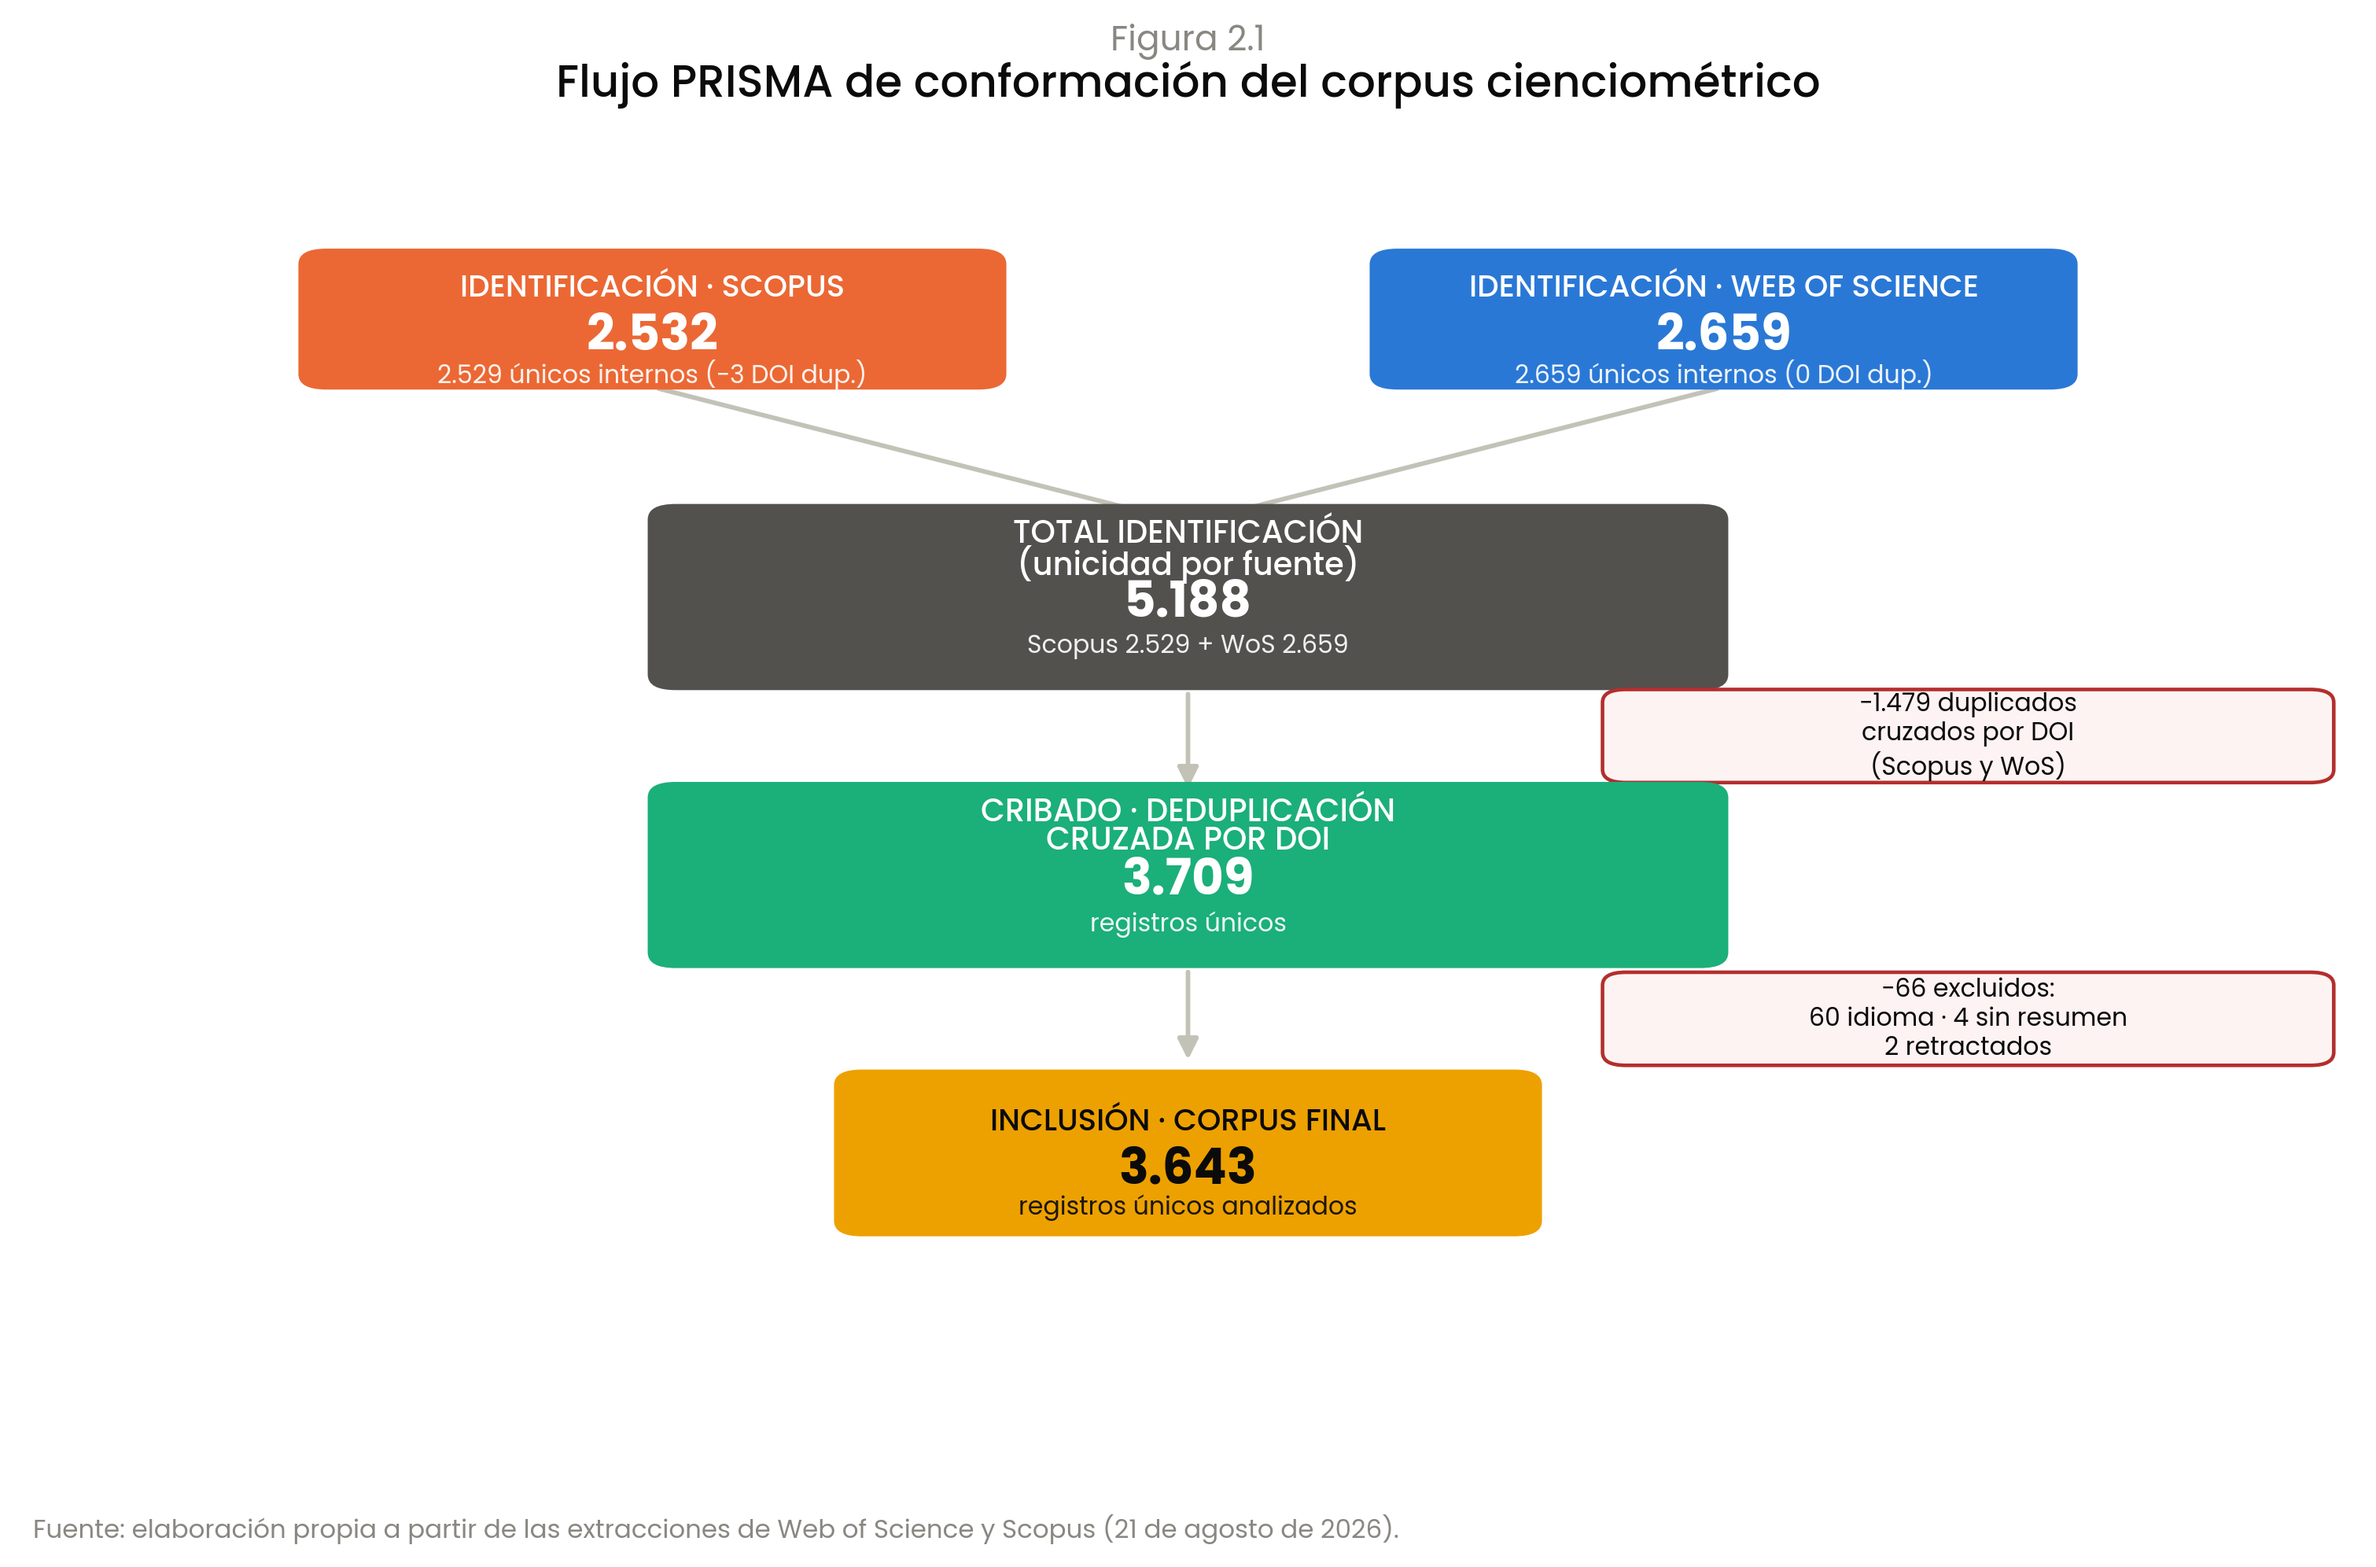
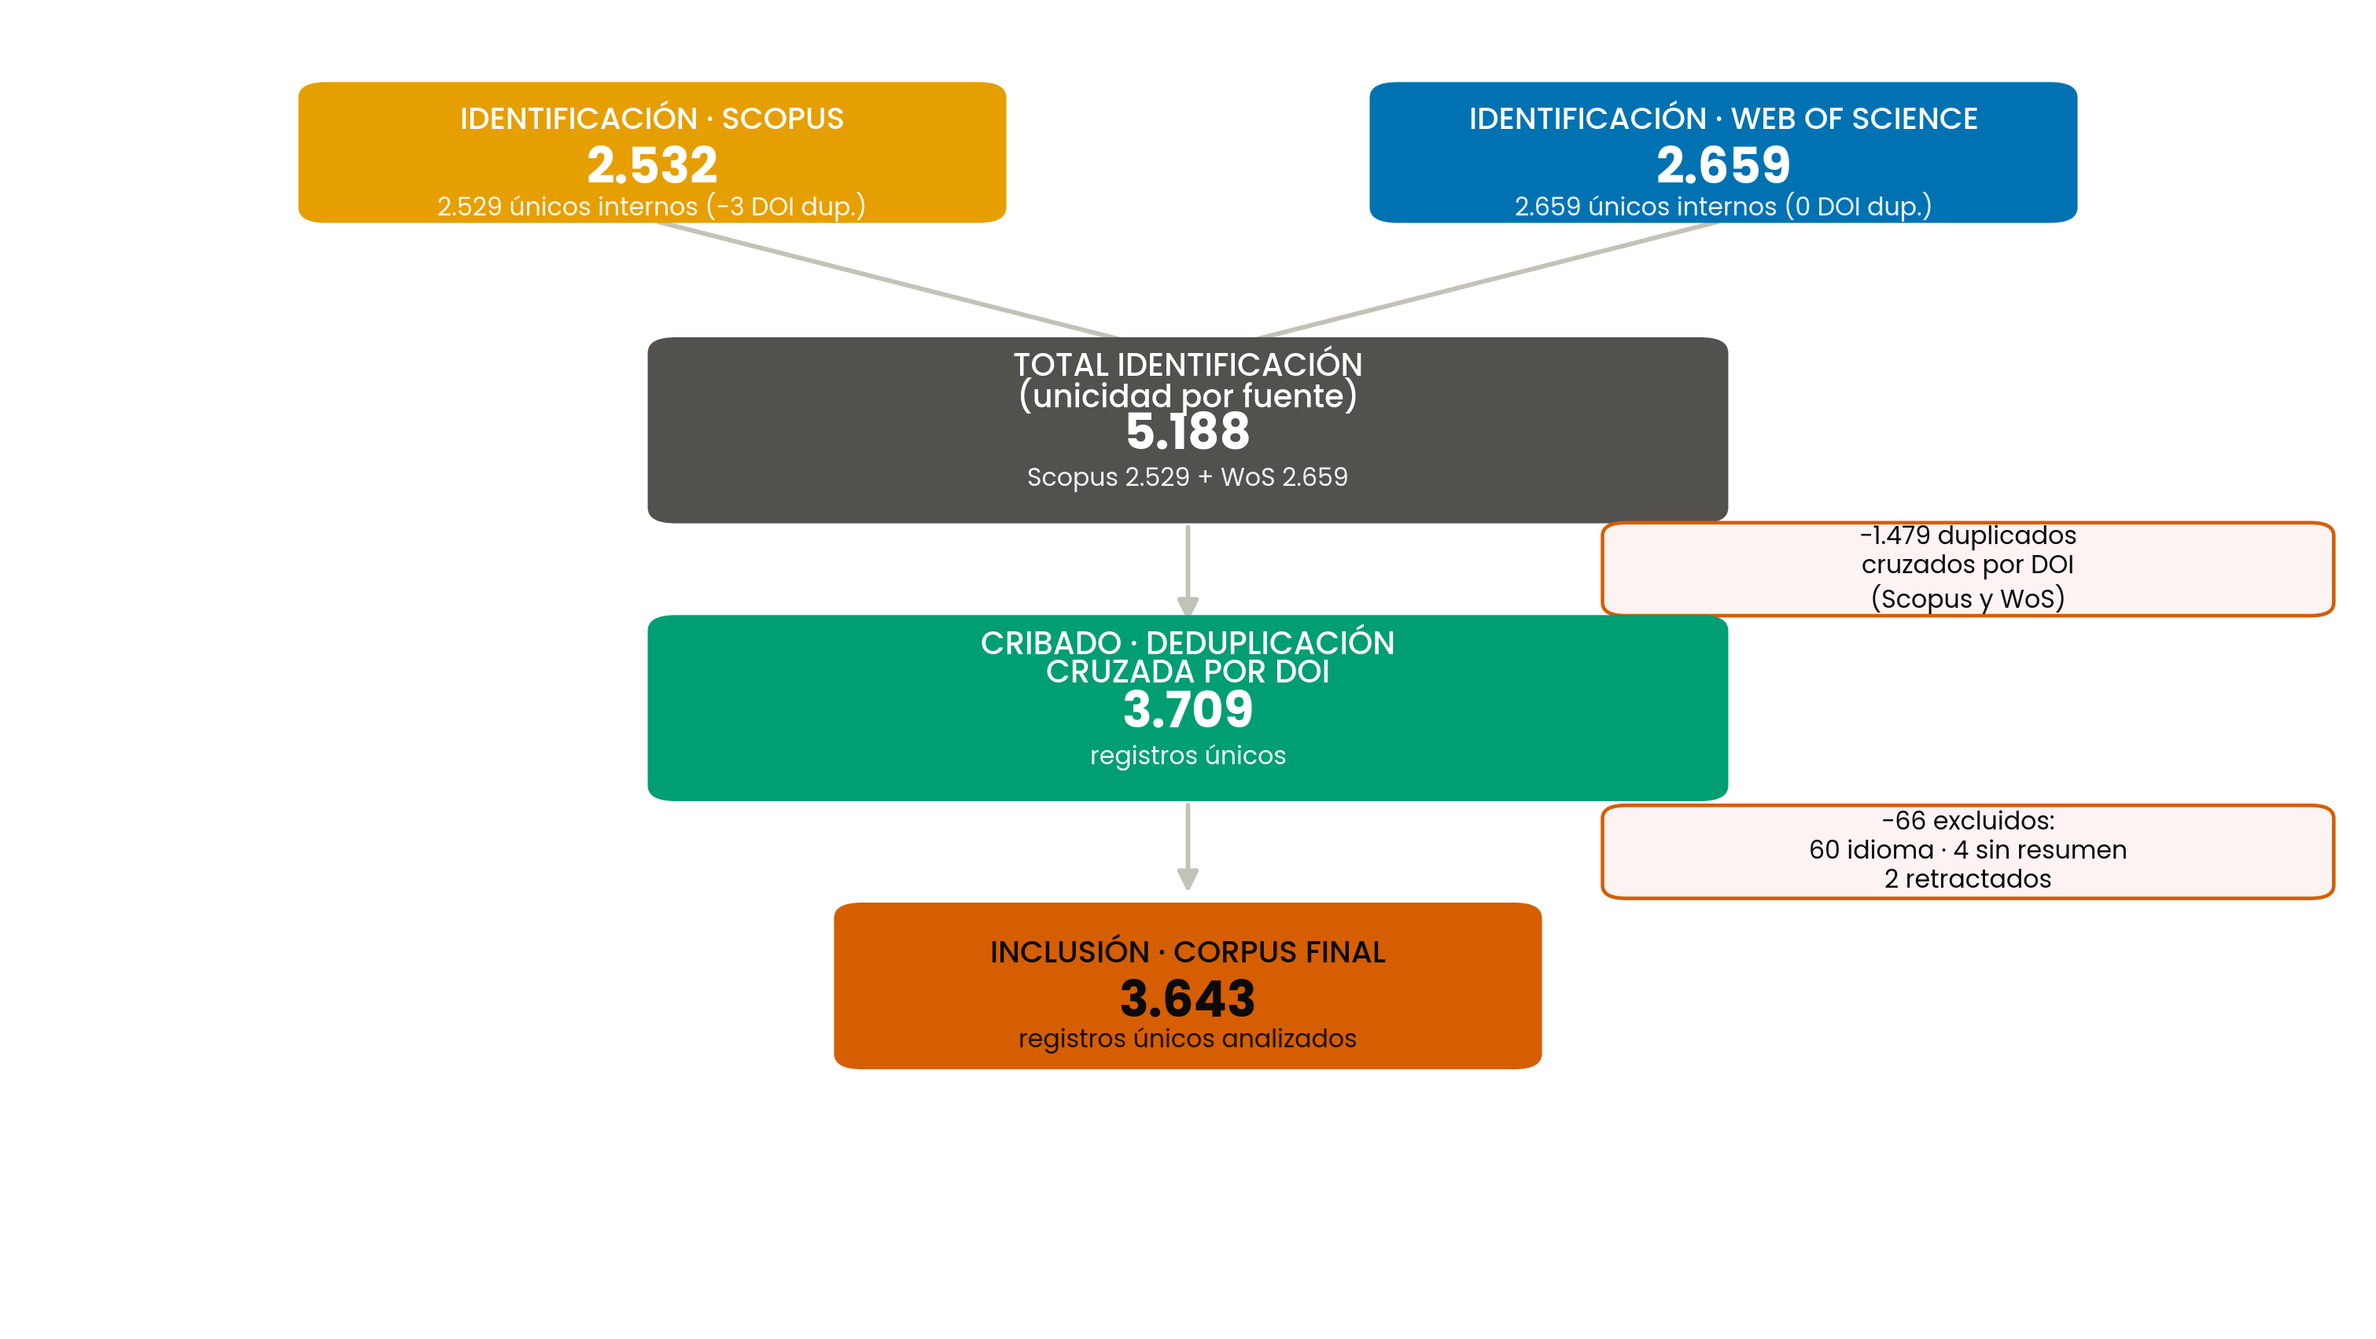
Figuras 1.4 y 2.1-2.6 sin título interno; Figura 2.2 desde el corpus final

Changed region(s): [[0.1245, 0.0, 0.9957, 0.8092], [0.0311, 0.9648, 0.5912, 0.9959]]

diff --git a/figures/style.py b/figures/style.py
@@ -19,12 +19,12 @@ plt.rcParams['font.family'] = 'Poppins'
 plt.rcParams['font.size'] = 11
 
 # --- Paleta categórica (orden fijo, nunca ciclado) ---
-CAT = {
-    'C1': '#2a78d6',  # azul
-    'C2': '#eb6834',  # naranja
-    'C3': '#1baf7a',  # aqua
-    'C4': '#eda100',  # amarillo
-    'C5': '#e87ba4',  # magenta
+CAT = {  # paleta Okabe-Ito
+    'C1': '#0072B2',  # azul
+    'C2': '#E69F00',  # naranja
+    'C3': '#009E73',  # verde azulado
+    'C4': '#D55E00',  # bermellón
+    'C5': '#CC79A7',  # púrpura rojizo
 }
 CAT_ORDER = ['C1', 'C2', 'C3', 'C4', 'C5']
 
@@ -37,14 +37,14 @@ BASELINE = '#c3c2b7'
 SURFACE = '#fcfcfb'
 
 # --- Secuencial (un solo tono, azul, claro->oscuro) ---
-SEQ_BLUE = ['#cde2fb', '#9ec5f4', '#5598e7', '#2a78d6', '#184f95', '#0d366b']
+SEQ_BLUE = ['#d6e8f5', '#a8cbe9', '#6fa6d8', '#3f87c4', '#0072B2', '#004e7a']  # un solo tono: azul Okabe-Ito
 SEQ_BLUE_CMAP = LinearSegmentedColormap.from_list('seq_blue', SEQ_BLUE)
 
 # --- Divergente (azul <-> rojo, punto medio gris neutro) ---
-DIV_BLUE = '#184f95'
+DIV_BLUE = '#0072B2'
 DIV_MID = '#f0efec'
-DIV_RED = '#b32e2d'
-DIV_CMAP = LinearSegmentedColormap.from_list('div_blue_red', [DIV_BLUE, '#7fa8d8', DIV_MID, '#e79a91', DIV_RED])
+DIV_RED = '#D55E00'
+DIV_CMAP = LinearSegmentedColormap.from_list('div_blue_red', [DIV_BLUE, '#7fb2d6', DIV_MID, '#ebae80', DIV_RED])
 
 # --- Estado ---
 STATUS_GOOD = '#0ca30c'
@@ -56,6 +56,11 @@ def new_fig(w=7.5, h=5.0):
     fig.patch.set_facecolor('white')
     ax.set_facecolor('white')
     return fig, ax
+
+
+def coma(x, nd=2):
+    """Formato numérico en español: coma decimal."""
+    return f'{x:.{nd}f}'.replace('.', ',')
 
 
 def style_axes(ax, hide_spines=('top', 'right'), grid_axis=None):
@@ -71,7 +76,14 @@ def style_axes(ax, hide_spines=('top', 'right'), grid_axis=None):
         ax.set_axisbelow(True)
 
 
+MOSTRAR_TITULOS = False
+
+
 def title_block(ax_or_fig, title, subtitle=None, x=0.0, y=1.06, sub_y=1.015):
+    # El título y la fuente van en el pie de figura de la monografía (APA 7):
+    # la figura no los repite.
+    if not MOSTRAR_TITULOS:
+        return
     kwargs = {}
     if hasattr(ax_or_fig, 'transAxes'):
         kwargs['transform'] = ax_or_fig.transAxes
@@ -86,4 +98,6 @@ def title_block(ax_or_fig, title, subtitle=None, x=0.0, y=1.06, sub_y=1.015):
 
 
 def source_note(fig, text, x=0.02, y=0.01):
+    if not MOSTRAR_TITULOS:
+        return
     fig.text(x, y, text, fontsize=7.8, color=INK_MUTED, ha='left', family='Poppins')

diff --git a/figures/fig_1_4_brecha_diseno.py b/figures/fig_1_4_brecha_diseno.py
@@ -131,24 +131,14 @@ axR.annotate('Arquitectura OWA-difusa\n(esta tesis)', xy=p_tesis, xytext=(p_tesi
              arrowprops=dict(arrowstyle='-', color=CAT['C1'], linewidth=1.3),
              path_effects=[pe.withStroke(linewidth=3, foreground='white')])
 
-axR.text(5.0, 0.35, 'Decisión de diseño —no deducida del corpus—: se prioriza sensibilidad\n'
+axR.text(5.0, 0.35, 'Decisión de diseño: se prioriza sensibilidad\n'
                      'conductual e interpretabilidad auditable (Rudin, 2019), como puente\n'
-                     'hacia el núcleo teórico bajo trazabilidad regulatoria (MiFID II; EU AI Act)',
+                     'hacia el núcleo teórico bajo trazabilidad regulatoria (MiFID II; Reglamento de IA de la UE)',
           ha='center', fontsize=8.0, color=INK_SECONDARY, family='Poppins', linespacing=1.4)
 
 axR.text(0.0, 10.55, 'B. El posicionamiento arquitectónico de la tesis', ha='left', fontsize=12.5,
           fontweight='medium', color=INK_PRIMARY, family='Poppins', transform=axR.transData)
 
-fig.text(0.02, 0.985, 'Figura 1.4 · De la brecha teoría-práctica al posicionamiento arquitectónico de la tesis',
-          fontsize=13.5, fontweight='medium', color=INK_PRIMARY, family='Poppins', ha='left')
-fig.text(0.02, 0.945, 'El hallazgo empírico del Capítulo 2 (panel A) motiva —sin determinarla lógicamente— '
-                       'la decisión de diseño del motor OWA-difuso (panel B)',
-          fontsize=9.5, color=INK_MUTED, family='Poppins', ha='left')
-fig.text(0.02, 0.012, 'Fuente: elaboración propia. Panel A: cartografía cienciométrica del Capítulo 2 '
-                       '(N = 3.643 registros; puntuación de brecha de Burt, 1992; ver Figura 2.6). '
-                       'Panel B: síntesis conceptual del criterio de diseño desarrollado en el Capítulo 4 '
-                       'y discutido en la Sección 9.3.', fontsize=7.6, color=INK_MUTED, family='Poppins')
-
-plt.tight_layout(rect=[0.01, 0.03, 0.99, 0.90])
+plt.tight_layout(rect=[0.01, 0.01, 0.99, 0.97])
 plt.savefig('fig_1_4_brecha_diseno.png', dpi=300, bbox_inches='tight', facecolor='white')
 print('OK fig_1_4_brecha_diseno.png')

diff --git a/figures/fig_2_5_gap_matrix.py b/figures/fig_2_5_gap_matrix.py
@@ -1,4 +1,4 @@
-"""Figura 2.4 — Matriz divergente de brechas estructurales entre clústeres (Burt, 1992)."""
+"""Figura 2.5 — Matriz divergente de brechas estructurales entre clústeres (Burt, 1992)."""
 import sys
 sys.path.insert(0, '.')
 import json
@@ -64,7 +64,7 @@ for i in range(n):
             lum = 0.299*rgb[0] + 0.587*rgb[1] + 0.114*rgb[2]
             txt_color = 'white' if lum < 0.62 else INK_PRIMARY
             flag = ' *' if v > 1.5 else ''
-            ax.text(x + 0.5, y + 0.5, f'{v:.2f}{flag}', ha='center', va='center', fontsize=11.5,
+            ax.text(x + 0.5, y + 0.5, f'{coma(v)}{flag}', ha='center', va='center', fontsize=11.5,
                     color=txt_color, family='Poppins', fontweight='bold', zorder=3)
 
 ax.set_xlim(0, n)
@@ -85,7 +85,7 @@ grad_ax.imshow(grad, aspect='auto', cmap=DIV_CMAP, extent=[vmin, vmax, 0, 1])
 grad_ax.set_yticks([])
 grad_ax.set_xscale('log')
 grad_ax.set_xticks([vmin, 1, vmax])
-grad_ax.set_xticklabels([f'{vmin:.2f}\nintegración', '1,0\nsin brecha', f'{vmax:.2f}\nbrecha significativa'],
+grad_ax.set_xticklabels([f'{coma(vmin)}\nintegración', '1,0\nsin brecha', f'{coma(vmax)}\nbrecha significativa'],
                          fontsize=7.6, family='Poppins', color=INK_SECONDARY)
 grad_ax.tick_params(length=0)
 for s in grad_ax.spines.values():
@@ -94,7 +94,7 @@ for s in grad_ax.spines.values():
 fig.text(0.5, 0.085, 'gap$_{ij}$ = (f$_i$ · f$_j$ / N) / cooc$_{ij}$     ·     * brecha significativa (> 1,5)     ·     S/C = sin co-ocurrencia observada',
          ha='center', fontsize=8.0, color=INK_MUTED, family='Poppins')
 
-title_block(fig, 'Figura 2.4 · Brechas estructurales entre clústeres temáticos',
+title_block(fig, 'Figura 2.5 · Brechas estructurales entre clústeres temáticos',
             '8 de 10 pares de clústeres muestran una brecha significativa (Burt, 1992); C2–C3 es la única integración',
             x=0.10, y=0.975, sub_y=0.935)
 source_note(fig, 'Fuente: elaboración propia. Puntuación de brecha calculada sobre palabra clave dominante y exclusiva por clúster (N = 3.643).', y=0.025)

diff --git a/figures/fig_2_2_temporal.py b/figures/fig_2_2_temporal.py
@@ -7,12 +7,12 @@ from style import *
 import matplotlib.patches as mpatches
 from matplotlib.patches import FancyArrowPatch
 
-with open('../data/final/corpus_final.json', encoding='utf-8') as f:
+with open('../data/final/corpus_final_metadatos.json', encoding='utf-8') as f:
     corpus = json.load(f)
 
 years = []
 for r in corpus:
-    y = r.get('Year')
+    y = r.get('year')
     try:
         y = int(str(y).strip())
         if 1900 < y < 2027:
@@ -71,7 +71,7 @@ for i, lab in enumerate(labels):
         tick_idx.append(i); tick_lab.append(lab)
     else:
         y = int(lab)
-        if y % 5 == 0 or y == PARTIAL_YEAR:
+        if (y % 5 == 0 and y != 1995 and y != 2025) or y == PARTIAL_YEAR:
             tick_idx.append(i); tick_lab.append(lab)
 ax.set_xticks(tick_idx)
 ax.set_xticklabels(tick_lab, fontsize=8.8)
@@ -103,7 +103,7 @@ title_block(fig, 'Figura 2.2 · Distribución temporal del corpus final (N = 3.6
             'Crecimiento sostenido con aceleración marcada a partir de 2016',
             x=0.045, y=0.965, sub_y=0.915)
 source_note(fig, 'Fuente: elaboración propia a partir del corpus final Web of Science + Scopus (corte: 21 de agosto de 2026). '
-                  'Los 29 años previos a 1995 (97 registros) se agregan en el bucket "≤1994" por su baja densidad individual.')
+                  'Los 29 años previos a 1995 (97 registros) se agregan en la barra «≤1994» por su baja densidad individual.')
 
 plt.tight_layout(rect=[0.01, 0.03, 0.99, 0.86])
 plt.savefig('fig_2_2_temporal.png', dpi=300, bbox_inches='tight', facecolor='white')

diff --git a/figures/fig_2_3_tos.py b/figures/fig_2_3_tos.py
@@ -1,4 +1,4 @@
-"""Figura 2.5 — Estratificación Tree of Science (Robledo, Osorio y López, 2014)."""
+"""Figura 2.3 — Estratificación Tree of Science (Robledo, Osorio y López, 2014)."""
 import sys
 sys.path.insert(0, '.')
 import json
@@ -25,7 +25,7 @@ xmax = total * 1.02
 for (name, val, color, desc), y in zip(tiers, y_pos):
     ax.barh(y, val, color=color, height=0.62, zorder=3)
     pct = 100 * val / total
-    ax.text(val + xmax * 0.015, y, f'{val:,}'.replace(',', '.') + f'  ·  {pct:.2f} %',
+    ax.text(val + xmax * 0.015, y, f'{val:,}'.replace(',', '.') + f'  ·  {coma(pct)} %',
             va='center', ha='left', fontsize=11, color=INK_PRIMARY, family='Poppins', fontweight='bold')
     ax.text(-xmax * 0.02, y + 0.30, name, va='center', ha='right', fontsize=12.5,
             color=INK_PRIMARY, family='Poppins', fontweight='medium')
@@ -40,7 +40,7 @@ ax.set_xlabel('Número de nodos en la red de citación (N = %s totales, corpus +
               fontsize=9, color=INK_SECONDARY, family='Poppins')
 ax.tick_params(axis='x', labelsize=9)
 
-title_block(fig, 'Figura 2.5 · Estratificación Tree of Science de la red de citación',
+title_block(fig, 'Figura 2.3 · Estratificación Tree of Science de la red de citación',
             'Distribución fuertemente sesgada: solo 1,71 % de los nodos son obras raíz',
             x=0.045, y=0.965, sub_y=0.90)
 source_note(fig, 'Fuente: elaboración propia. Clasificación por root_score (grado de salida y cercanía normalizados, '

diff --git a/figures/fig_2_6_brecha.py b/figures/fig_2_6_brecha.py
@@ -20,7 +20,7 @@ labels = {
     1: 'C1\nOpciones reales',
     2: 'C2\nAmbigüedad',
     3: 'C3\nOptim. robusta',
-    4: 'C4\nFuzzy MCDM',
+    4: 'C4\nMCDM difuso',
     5: 'C5\nConectividad',
 }
 
@@ -48,14 +48,14 @@ for j, g in c1_gaps.items():
     ax.add_patch(a)
     frac = {2: 0.42, 3: 0.42, 4: 0.42, 5: 0.30}[j]
     mx, my = (pos[1][0]*(1-frac) + pos[j][0]*frac), (pos[1][1]*(1-frac) + pos[j][1]*frac)
-    ax.text(mx, my, f'{g:.2f}', ha='center', va='center', fontsize=8.3, color=DIV_RED,
+    ax.text(mx, my, coma(g), ha='center', va='center', fontsize=8.3, color=DIV_RED,
             family='Poppins', fontweight='bold', zorder=5,
             path_effects=[pe.withStroke(linewidth=2.6, foreground='white')])
 
 # --- Integración C2-C3 (hallazgo secundario) ---
 a = FancyArrowPatch(pos[2], pos[3], arrowstyle='-', linewidth=5.2, color=DIV_BLUE, zorder=2)
 ax.add_patch(a)
-ax.text((pos[2][0]+pos[3][0])/2 + 0.55, (pos[2][1]+pos[3][1])/2, '0.37\nintegración',
+ax.text((pos[2][0]+pos[3][0])/2 + 0.55, (pos[2][1]+pos[3][1])/2, '0,37\nintegración',
         ha='left', va='center', fontsize=8.3, color=DIV_BLUE, family='Poppins', fontweight='bold',
         linespacing=1.3, zorder=5)
 

diff --git a/figures/fig_2_4_clusters.py b/figures/fig_2_4_clusters.py
@@ -1,4 +1,4 @@
-"""Figura 2.3 — Caracterización de los cinco macro-clústeres temáticos."""
+"""Figura 2.4 — Caracterización de los cinco macro-clústeres temáticos."""
 import sys
 sys.path.insert(0, '.')
 import json
@@ -55,7 +55,7 @@ for c, x, y, r in zip(clusters, xs, ys, ranks):
     ax.annotate(f"n = {c['n_docs']}", xy=(x, y), xytext=(x + dx * 0.012, y + dy - 5.4),
                 ha='center', va='center', fontsize=7.4, color=INK_MUTED, family='Poppins')
 
-title_block(fig, 'Figura 2.3 · Caracterización de los cinco macro-clústeres temáticos',
+title_block(fig, 'Figura 2.4 · Caracterización de los cinco macro-clústeres temáticos',
             'Tamaño de burbuja = número de documentos · detección de comunidades de Louvain (resolución 0,5; Q = 0,544)',
             x=0.07, y=0.965, sub_y=0.925)
 source_note(fig, 'Fuente: elaboración propia a partir del corpus final (N = 3.643) y del acoplamiento bibliográfico (OpenAlex, referenced_works).')
